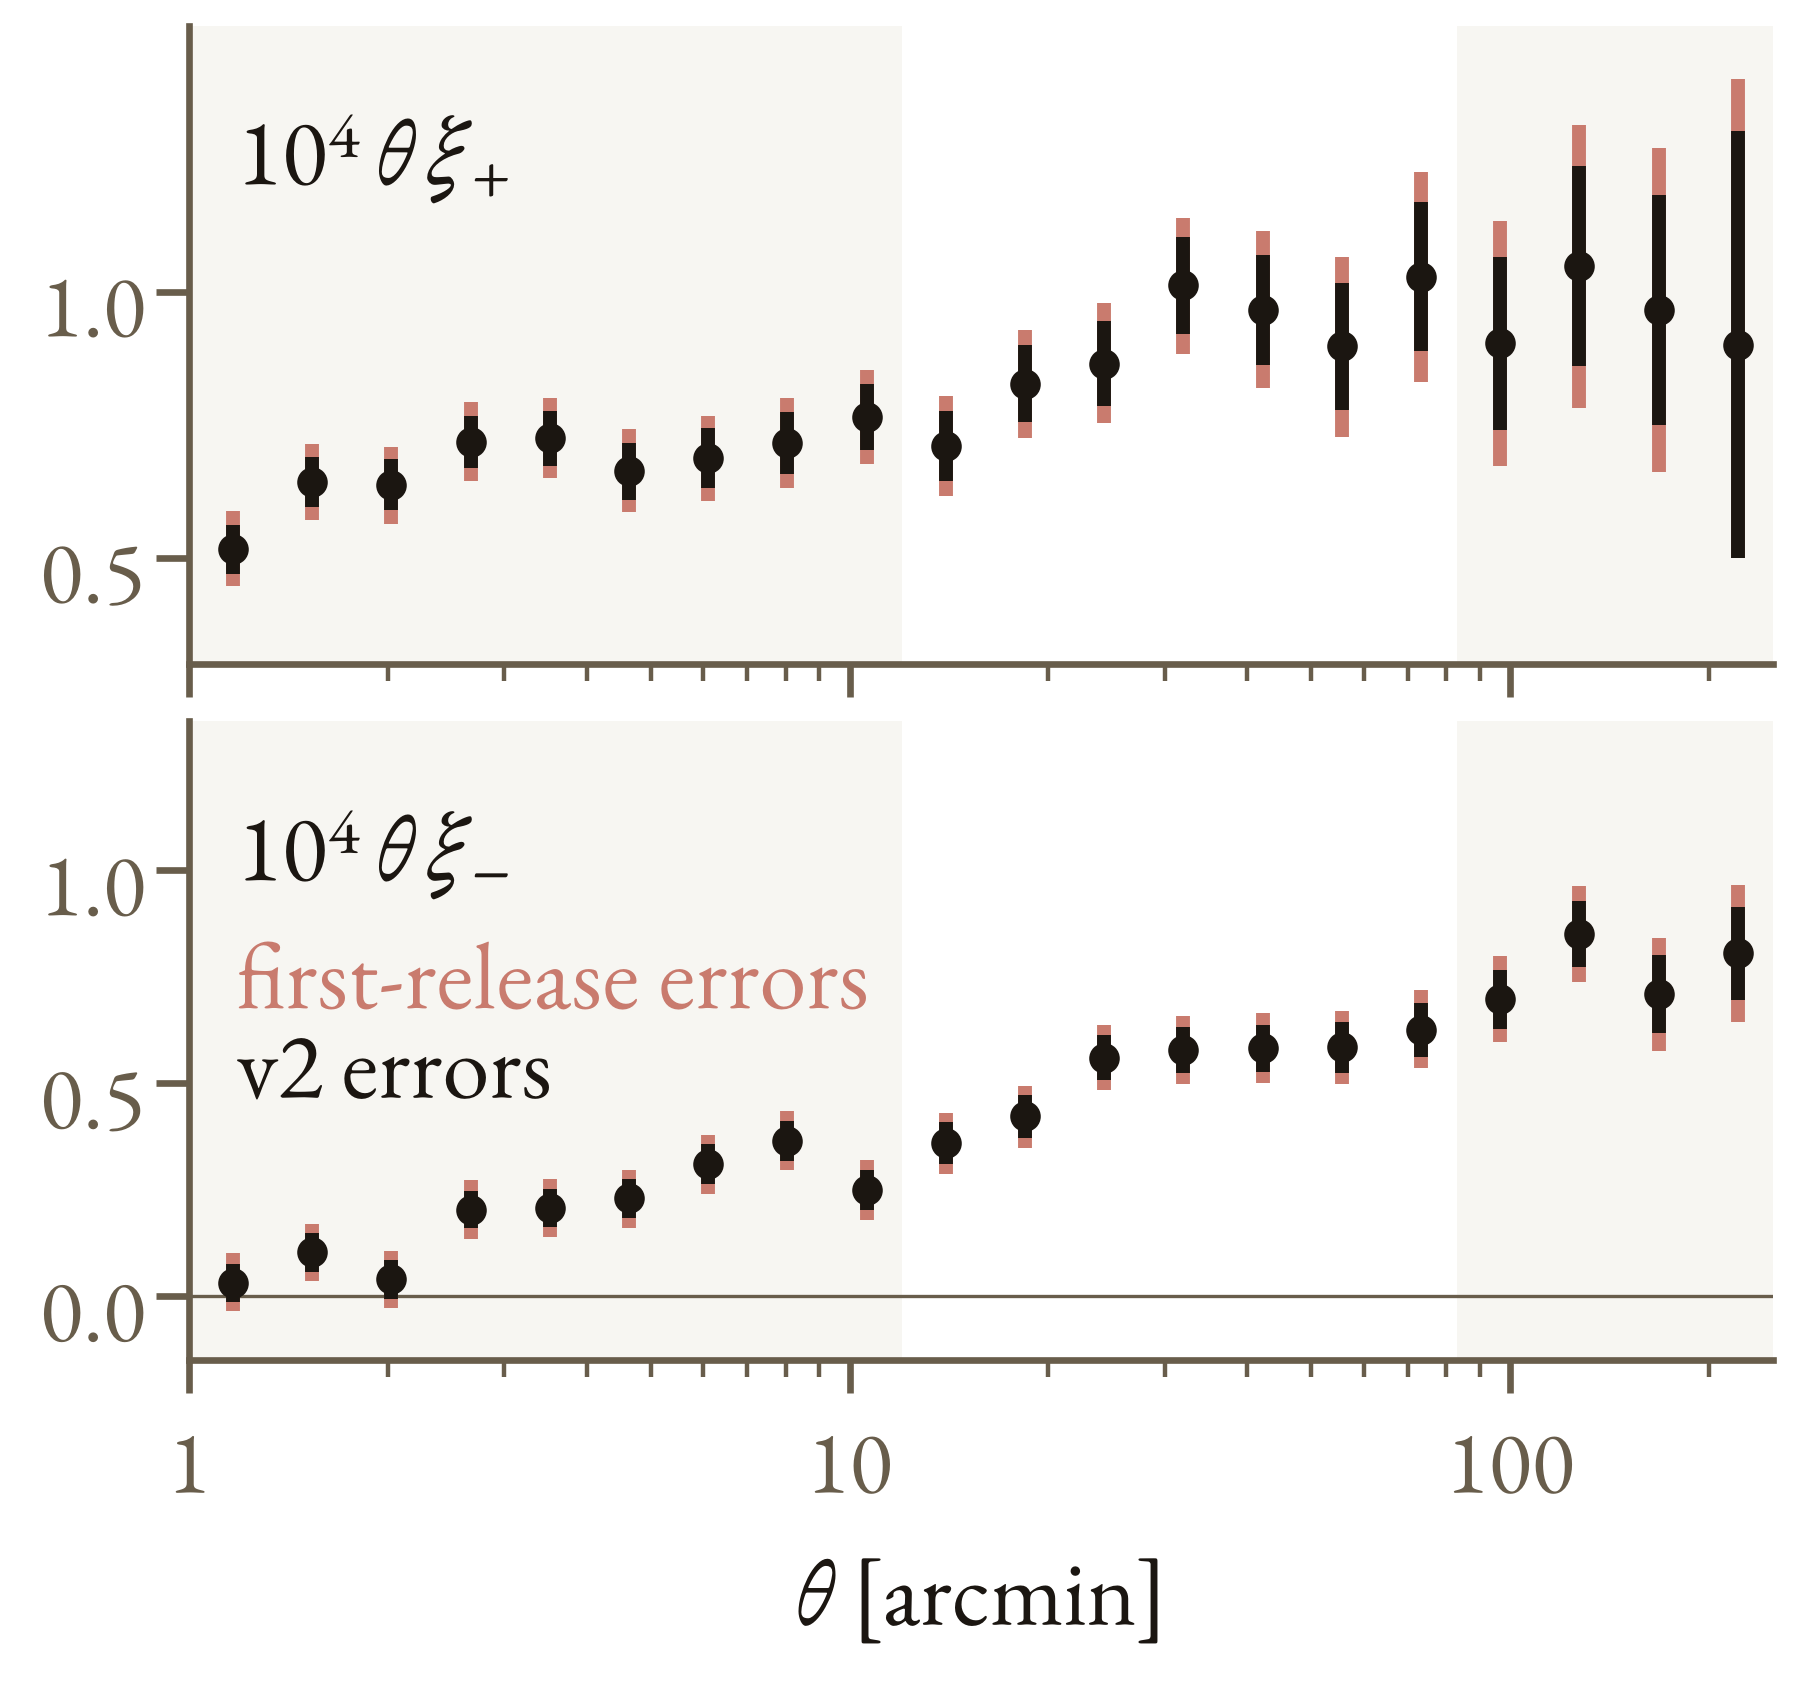
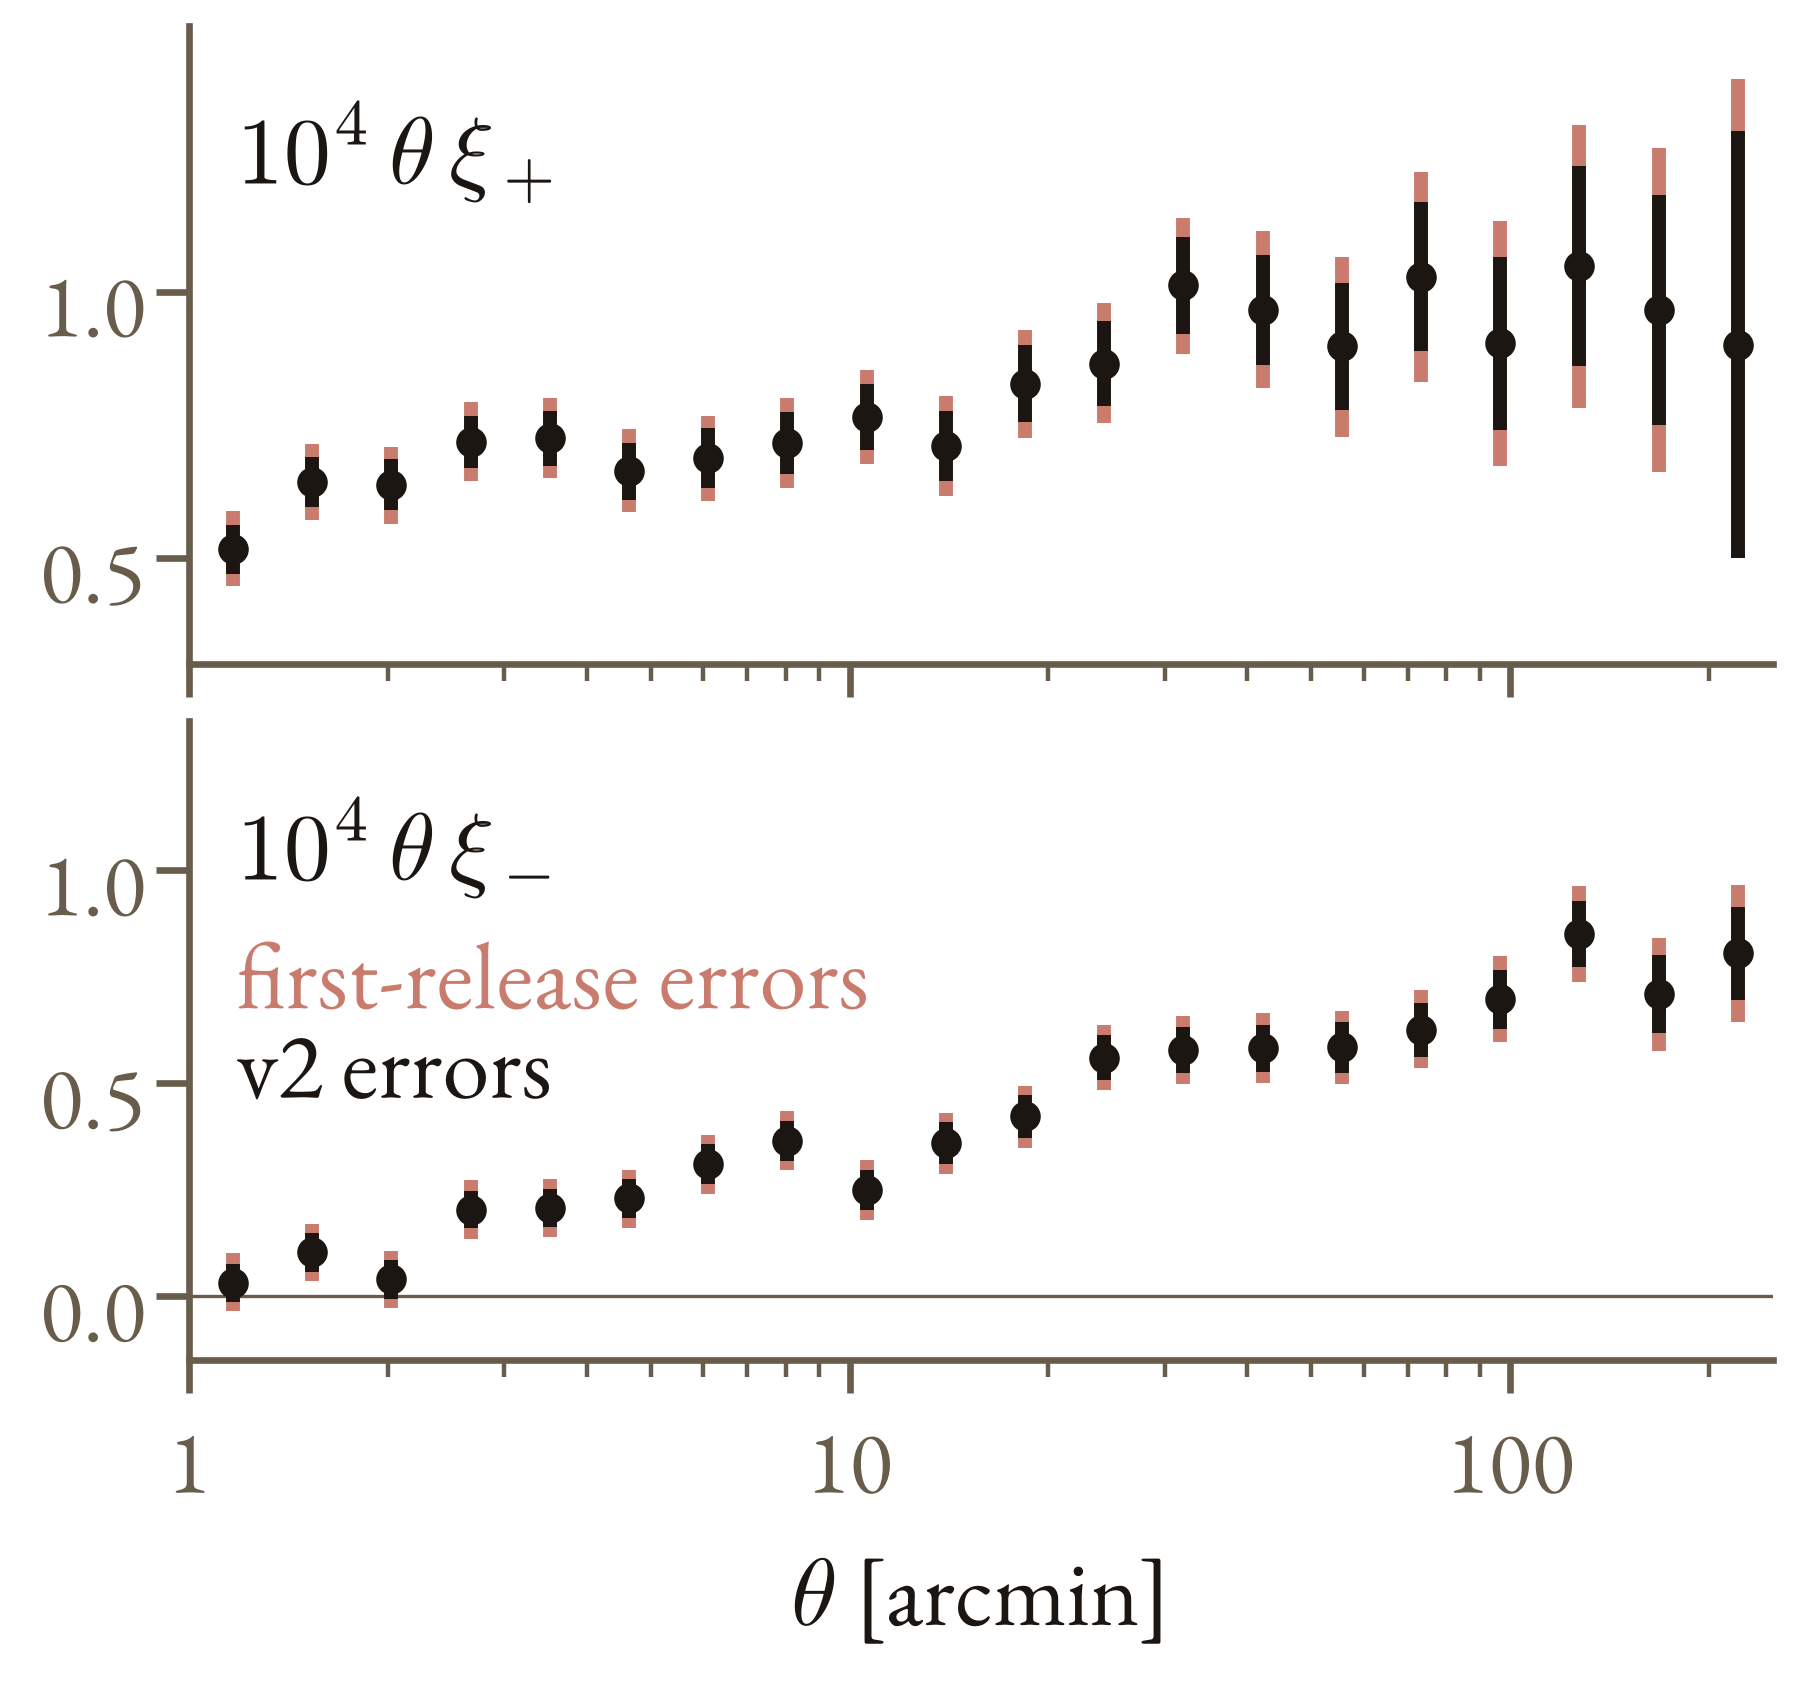
ICE unions-next: plot without scale-cut shading, math in Computer Modern; unions-3x2pt: DESI Legacy and 4,100 deg², portraits after the names
Claude-Session: https://claude.ai/code/session_01JK7o9HLVAQSEbDDkHmrKC6

Changed region(s): [[0.4356, 0.9041, 0.6533, 0.9665], [0.1556, 0.4676, 0.28, 0.53], [0.1556, 0.0624, 0.3111, 0.1247]]

diff --git a/2611_ICE_Barcelona/slides/unions-next.html b/2611_ICE_Barcelona/slides/unions-next.html
@@ -19,7 +19,7 @@
   <aside class="notes">
     <ul class="skim">
       <li><strong>$n(z)$</strong> — not shown: the $n(z)$ for parameters comes from the photo-z group (Klara Bertmann, Bochum, who also leads the tomographic cosmic-shear paper).</li>
-      <li><strong>Figure</strong> — the non-tomographic $\xi_\pm$ of the full-area v2 sample (170.6 million galaxies over 4690 deg², every galaxy, no tomographic selection), concealed, with the first release's error bars and v2's: v2's are 0.71× ($\xi_+$) and 0.68× ($\xi_-$) inside 12–83′, both from OneCovariance (Gaussian, non-Gaussian and super-sample terms). Unshaded: 12–83′.</li>
+      <li><strong>Figure</strong> — the non-tomographic $\xi_\pm$ of the full-area v2 sample (170.6 million galaxies over 4690 deg², every galaxy, no tomographic selection), concealed, with the first release's error bars and v2's: v2's are 0.71× ($\xi_+$) and 0.68× ($\xi_-$) inside 12–83′, both from OneCovariance (Gaussian, non-Gaussian and super-sample terms).</li>
       <li><strong>Shear calibration</strong> — first release $m = -0.057 \pm 0.0047$ from image simulations. v2 ShapePipe: image simulations rerun on Fir in November (150 interior tiles, isolated galaxies on a grid, processed by ShapePipe as the data are, v2 weights, tile jackknife), $m_1 = (+0.3 \pm 1.5)\times10^{-3},$ $m_2 = (-0.9 \pm 1.7)\times10^{-3};$ the slide quotes $m_1.$ The October grids gave $m_1 = -0.0062 \pm 0.0038,$ $m_2 = -0.0057 \pm 0.0046.$ Shurui Lin's AnaCal, $m_1 = (+3.1 \pm 7.8)\times10^{-3},$ $m_2 = (+2.0 \pm 7.6)\times10^{-3},$ likely without the selection response, so not yet like for like.</li>
       <li><strong>Caveat</strong> — isolated galaxies only; blending added about −1.7 % in the first release. Multi-band image simulations are in progress.</li>
       <li><strong>Outlook</strong> — the tomographic cosmic-shear analysis, led by Klara Bertmann, targets a June 2027 release, with constraints expected to be competitive with Stage III and with Year-1 Stage IV.</li>

diff --git a/2611_ICE_Barcelona/slides/unions-3x2pt.html b/2611_ICE_Barcelona/slides/unions-3x2pt.html
@@ -41,11 +41,11 @@
   </figure>
   <div class="text">
     <ul>
-      <li>lenses: Legacy imaging × SPHEREx redshifts on 4,099 deg² of v2</li>
+      <li>lenses: DESI Legacy imaging × SPHEREx redshifts on 4,100 deg² of v2</li>
       <li>first chain on GLASS mocks (stand-in lens bins) recovers $\Omega_{\rm m}$</li>
       <li class="fragment">next: real lens bins in the mocks, a blind, then data</li>
     </ul>
-    <p class="source lead"><span class="who"><img src="images/collaborators/calum-murray.jpg" alt="Calum Murray">Led by Calum Murray</span><span class="who"><img src="images/collaborators/cail-daley.jpg" alt="Cail Daley">and myself</span></p>
+    <p class="source lead"><span class="who after">Led by Calum Murray<img src="images/collaborators/calum-murray.jpg" alt="Calum Murray"></span><span class="who after">and myself<img src="images/collaborators/cail-daley.jpg" alt="Cail Daley"></span></p>
   </div>
   <aside class="notes">
     <ul class="skim">

diff --git a/2611_ICE_Barcelona/deck.css b/2611_ICE_Barcelona/deck.css
@@ -185,3 +185,6 @@
 /* dr1-forecast: the two blinding draws, keyed by the dots on the plot */
 .slide ul.draws { list-style: none; padding-left: 0; }
 .slide ul.draws .dot { display: inline-block; width: 0.5em; height: 0.5em; border-radius: 50%; margin-right: 0.45em; vertical-align: 0.08em; }
+
+/* a credit with its portrait after the name */
+.slide .who.after { margin-right: 0.5em; }

diff --git a/2611_ICE_Barcelona/make_unions_xi_errorbars.py b/2611_ICE_Barcelona/make_unions_xi_errorbars.py
@@ -61,7 +61,7 @@ def read_bars(path, half, rgb, yrange):
 
 def main():
     style.setup_font()
-    plt.rcParams.update({'font.size': 34, 'xtick.labelsize': 32, 'ytick.labelsize': 32,
+    plt.rcParams.update({'mathtext.fontset': 'cm', 'font.size': 34, 'xtick.labelsize': 32, 'ytick.labelsize': 32,
                          'axes.linewidth': 2.4, 'axes.edgecolor': MUTED, 'axes.labelcolor': INK,
                          'xtick.color': MUTED, 'ytick.color': MUTED, 'xtick.major.size': 12,
                          'ytick.major.size': 12, 'xtick.major.width': 2.4, 'ytick.major.width': 2.4,
@@ -75,7 +75,6 @@ def main():
         mid = 0.5 * (lo2 + hi2)
         print(f'xi{sign}: sigma_v2/sigma_first, bins inside 12-83 arcmin:',
               np.round(((hi2 - lo2) / (hi1 - lo1))[(THETA > 12) & (THETA < 83)], 2))
-        ax.axvspan(1, 12, color=RULE, alpha=0.13, lw=0); ax.axvspan(83, 250, color=RULE, alpha=0.13, lw=0)
         if sign == '-':
             ax.axhline(0, color=MUTED, lw=1.2)
         ax.vlines(THETA, lo1, hi1, color=FIRST, lw=5, capstyle='butt')
